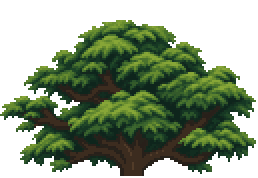
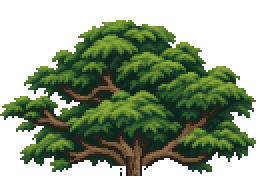
Fix Camphor wood tones and native branch and crown attachment joints

diff --git a/tools/match_camphor_wood.py b/tools/match_camphor_wood.py
@@ -1,18 +1,83 @@
-"""Exact color-only remap of brown foliage pixels to the native stem palette."""
+"""Match native wood tones by shade distribution and graft exact native joints."""
+from collections import Counter, deque
 from pathlib import Path
 from PIL import Image
 from build_camphor_assets import WOOD
 root=Path(__file__).resolve().parents[1]
+assets=root/'Assets/Grove'
+stem=Image.open(assets/'Camphor.png').convert('RGBA')
+native=Image.open(root/'tools/art/grove/vanilla/Tree_Branches_0.png').convert('RGBA')
+wood=set(WOOD.values())
+counts=Counter(p[:3] for p in stem.get_flattened_data() if p[3] and p[:3] in wood)
+ordered=sorted(counts,key=sum)
+thresholds=[];total=sum(counts.values());cumulative=0
+for color in ordered:
+    cumulative+=counts[color];thresholds.append(cumulative/total)
+def brown(p):
+    r,g,b,a=p
+    return a and r>g*1.12 and g>b*1.1
+
+def match(image):
+    original=list(image.get_flattened_data())
+    counts=Counter(p for p in original if brown(p))
+    mapping={};cumulative=0;total=sum(counts.values())
+    for color in sorted(counts,key=lambda p:sum(p[:3])):
+        quantile=(cumulative+counts[color]/2)/total
+        rank=next(i for i,t in enumerate(thresholds) if quantile<=t)
+        mapping[color]=(*ordered[rank],color[3]);cumulative+=counts[color]
+    image.putdata([mapping.get(p,p) for p in original])
+    return image
+
+def joint(style,left):
+    part=native.crop((0 if left else 42,style*42,40 if left else 82,style*42+40))
+    part.putdata([(*WOOD[p[:3]],p[3]) if p[3] and p[:3] in WOOD else (0,0,0,0) for p in part.get_flattened_data()])
+    return part
+
 for name in ('Camphor_Tops','Camphor_Boughs','Camphor_Branches'):
-    path=root/'Assets/Grove'/f'{name}.png'
-    image=Image.open(path).convert('RGBA')
-    colors=set(image.get_flattened_data())
-    mapping={}
-    for p in colors:
-        r,g,b,a=p
-        if a and r>g*1.12 and g>b*1.1:
-            # Keep already matched sockets; map original warm generated wood by shade.
-            target=p[:3] if p[:3] in WOOD.values() else WOOD[min(WOOD,key=lambda q:sum((v-w)**2 for v,w in zip(q,p[:3])))]
-            mapping[p]=(*target,a)
-    image.putdata([mapping.get(p,p) for p in image.get_flattened_data()])
+    path=assets/f'{name}.png';image=match(Image.open(path).convert('RGBA'))
+    if name=='Camphor_Tops':
+        # The source's neck centers at x134, not half of its former 256px canvas.
+        # Widening the transparent canvas keeps every leaf and centers the neck.
+        # Trim only brown neck overhang, then insert a complete native stem strip.
+        for y in range(166,176):
+            for x in range(image.width):
+                if not 126<=x<142 and brown(image.getpixel((x,y))):image.putpixel((x,y),(0,0,0,0))
+        strip=stem.crop((2,22,18,42))
+        image.alpha_composite(strip,(126,156))
+    else:
+        large=name=='Camphor_Boughs'
+        stride_x,stride_y,w=(66,50,64) if large else (42,42,40)
+        for style in range(3):
+            for side in range(2):
+                left=side==0;origin_x=side*stride_x;origin_y=style*stride_y
+                if style==2 and left:
+                    # This native arm rises above the generated limb's socket.
+                    # Move the existing art to it, rather than painting a bridge.
+                    h=48 if large else 40;up=2 if large else 8
+                    part=image.crop((origin_x,origin_y+up,origin_x+w,origin_y+h))
+                    image.paste((0,0,0,0),(origin_x,origin_y,origin_x+w,origin_y+h))
+                    image.alpha_composite(part,(origin_x,origin_y))
+                # Replace the attachment wood with the original native taper,
+                # rather than a solid rectangular plug. Foliage is untouched.
+                zone=8
+                for y in range(stride_y-2):
+                    for x in range(w-zone if left else 0,w if left else zone):
+                        p=(origin_x+x,origin_y+y)
+                        if brown(image.getpixel(p)):image.putpixel(p,(0,0,0,0))
+                image.alpha_composite(joint(style,left),(origin_x+(24 if left and large else 0),origin_y+(12 if large else 0)))
+    if name!='Camphor_Tops':
+        # A branch must be one continuous component from its native root.
+        h=48 if large else 40
+        for style in range(3):
+            for side in range(2):
+                ox,oy=side*stride_x,style*stride_y
+                opaque={(x,y) for y in range(h) for x in range(w) if image.getpixel((ox+x,oy+y))[3]}
+                queue=deque(p for p in opaque if p[0]>=w-2) if side==0 else deque(p for p in opaque if p[0]<2)
+                connected=set()
+                while queue:
+                    p=queue.popleft()
+                    if p in connected or p not in opaque:continue
+                    connected.add(p);x,y=p;queue.extend(((x-1,y),(x+1,y),(x,y-1),(x,y+1)))
+                assert len(connected)>=len(opaque)*.95,(name,style,side,'disconnected main limb')
+                for x,y in opaque-connected:image.putpixel((ox+x,oy+y),(0,0,0,0))
     image.save(path)

diff --git a/tools/check_camphor_joints.py b/tools/check_camphor_joints.py
@@ -1,0 +1,53 @@
+"""Check actual packed joint pixels against native stem frames; export closeups."""
+from collections import deque
+from pathlib import Path
+import hashlib
+from PIL import Image,ImageDraw
+from build_camphor_assets import WOOD
+ROOT=Path(__file__).resolve().parents[1]
+ASSETS=ROOT/'Assets/Grove'
+stem=Image.open(ASSETS/'Camphor.png').convert('RGBA')
+# Pin the approved 0.4.25 stem pixels, independent of PNG encoder/Git history.
[1 lines of base64/hex data omitted]
+wood=set(WOOD.values());means=[]
+for name,size in [('Camphor',(176,264)),('Camphor_Tops',(270,178)),('Camphor_Boughs',(132,150)),('Camphor_Branches',(84,126))]:
+ im=Image.open(ASSETS/(name+'.png')).convert('RGBA');assert im.size==size
+ assert set(im.getchannel('A').get_flattened_data())=={0,255}
+ for y in range(0,im.height,2):
+  for x in range(0,im.width,2):
+   p=im.getpixel((x,y));assert all(im.getpixel((x+dx,y+dy))==p for dx in (0,1) for dy in (0,1)),(name,x,y)
+ pixels=[p[:3] for p in im.get_flattened_data() if p[3] and p[:3] in wood]
+ means.append(tuple(sum(p[k] for p in pixels)/len(pixels) for k in range(3)))
+assert all(abs(mean[k]-means[0][k])<9 for mean in means[1:3] for k in range(3)),means
+
+def flood(image,seeds):
+ q=deque(seeds);seen=set()
+ while q:
+  x,y=q.popleft()
+  if (x,y) in seen or not (0<=x<image.width and 0<=y<image.height) or not image.getpixel((x,y))[3]:continue
+  seen.add((x,y));q.extend(((x-1,y),(x+1,y),(x,y-1),(x,y+1)))
+ return seen
+
+bough=Image.open(ASSETS/'Camphor_Boughs.png').convert('RGBA')
+plate=Image.new('RGBA',(540,276),'#6588ac');labels=ImageDraw.Draw(plate)
+for style in range(3):
+ for side in range(2):
+  left=side==0;image=Image.new('RGBA',(180,70));ox,oy=80,30
+  fx,fy=(110,66) if left else (66,110)
+  image.alpha_composite(stem.crop((fx,fy,fx+20,fy+20)),(ox-2,oy))
+  fx=44 if left else 66;fy=198+style*22
+  image.alpha_composite(stem.crop((fx,fy,fx+20,fy+20)),(ox+(-16 if left else 16)-2,oy))
+  part=bough.crop((side*66,style*50,side*66+64,style*50+48))
+  dx,dy=ox+(-64 if left else 16),oy-24;image.alpha_composite(part,(dx,dy))
+  attached=flood(image,[(ox+8,oy+8)])
+  pixels={(dx+x,dy+y) for y in range(48) for x in range(64) if part.getpixel((x,y))[3]}
+  assert pixels<=attached,('detached branch',style,side,len(pixels-attached))
+  x,y=style*180,side*92;plate.alpha_composite(image,(x,y+18))
+  labels.text((x+4,y+2),f'{"Left" if left else "Right"} {style+1}',fill='white')
+crown=Image.open(ASSETS/'Camphor_Tops.png').convert('RGBA')
+image=Image.new('RGBA',(64,76));image.alpha_composite(crown.crop((102,136,166,176)),(0,0))
+image.alpha_composite(stem.crop((0,22,20,42)),(22,40));attached=flood(image,[(32,52)])
+assert all((x,y) in attached for y in range(24,40) for x in range(24,40)), 'crown neck separated'
+plate.alpha_composite(image,(238,196));labels.text((224,184),'Crown / stem',fill='white')
+plate.resize((1080,552),Image.Resampling.NEAREST).save(ROOT/'tools/art/grove/camphor-joints-preview.png')
+print('Six branch-to-stem contacts, centered crown, wood tones, unchanged stem, binary alpha and 2x2 grid passed')

diff --git a/Content/Tiles/CamphorAppearance.cs b/Content/Tiles/CamphorAppearance.cs
@@ -47,8 +47,8 @@ namespace IslandAdventure.Content.Tiles
                 var branch=ModContent.Request<Texture2D>("IslandAdventure/Assets/Grove/Camphor_Boughs",AssetRequestMode.ImmediateLoad).Value;
                 int style=System.Math.Clamp((fy-198)/22,0,2);
                 bool left=fx==44;
-                batch.Draw(branch,point+new Vector2(left?16:0,12),
-                    new Rectangle(left?0:66,style*50,AncientCamphor.BoughWidth,AncientCamphor.BoughHeight),light,sway,new Vector2(left?AncientCamphor.BoughWidth:0,36),1,SpriteEffects.None,0);
+                batch.Draw(branch,point+new Vector2(left?16:0,left?12:18),
+                    new Rectangle(left?0:66,style*50,AncientCamphor.BoughWidth,AncientCamphor.BoughHeight),light,sway,new Vector2(left?AncientCamphor.BoughWidth:0,left?36:42),1,SpriteEffects.None,0);
             }
             return false;
         }

diff --git a/tools/render_camphor_preview.py b/tools/render_camphor_preview.py
@@ -1,7 +1,7 @@
 #!/usr/bin/env python3
 """Assemble an exported native tree with ImageMagick; do not repaint its art.
 
-Uses TileDrawing's zero-wind 20px trunk, 64px bough and custom 256px crown frames.
+Uses TileDrawing's zero-wind 20px trunk, 64px bough and custom 268px crown frames.
 This is a static join diagnostic, not a graphical-client screenshot.
 """
 import json
@@ -19,7 +19,7 @@ def render():
     tiles = sample["tiles"]
     trunk = sample["trunkX"]
     floor = sample["floor"]
-    crown_width, crown_height = 256, 176
+    crown_width, crown_height = 268, 176
     top = min(t["y"] * 16 + 16 - crown_height for t in tiles
               if t["fx"] == 22 and t["fy"] >= 198)
     origin_x = trunk * 16 + 8 - 200

diff --git a/Content/Trees/AncientCamphor.cs b/Content/Trees/AncientCamphor.cs
@@ -12,7 +12,7 @@ namespace IslandAdventure.Content.Trees
     // This registration also supports legacy grove soil in saved worlds.
     public class AncientCamphor : ModTree
     {
-        public const int CrownWidth = 256, CrownHeight = 176;
+        public const int CrownWidth = 268, CrownHeight = 176;
         public const int BranchWidth = 40, BranchHeight = 40;
         public const int BoughWidth = 64, BoughHeight = 48;
         public override TreePaintingSettings TreeShaderSettings => new TreePaintingSettings();

diff --git a/tools/art/grove/concepts/README.md b/tools/art/grove/concepts/README.md
@@ -5,7 +5,7 @@ previous tree was removed. camphor-parts-source.png contains a newly generated
 canopy and left/right boughs, using that concept and ecosystem-preview.png
 (existing grove plants) as references. Neither source image is loaded in game.
 
-## Current implementation (0.4.26)
+## Current implementation (0.4.27)
 
 User clarification: keep the actual vanilla-based trunk and roots, but use
 original Camphor crown and branches. Camphor.png is byte-identical to 0.4.25:
@@ -13,13 +13,20 @@ complete Tiles_5.png with the same exact six-shade wood palette transform.
 The stem builder does not crop, resize, quantize or reconstruct native alpha.
 
 build_camphor_foliage.sh packs the approved generated Camphor parts separately:
-- Camphor_Tops.png: 256x176 crown plus native trailing gutter (258x178).
+- Camphor_Tops.png: 268x176 crown frame plus trailing gutter (270x178); original foliage is not scaled.
 - Camphor_Boughs.png: 64x48 gallery branches, 66x50 stride, two sides/three styles.
 - Camphor_Branches.png: separate 40x40 fallback required by the ModTree API.
 
 match_camphor_wood.py matches brown pixels to the stem's six wood shades;
 foliage stays green. Hard alpha and 2x2 pixels are established before packing.
-Solid 8px sockets match the renderer's pivot and avoid thin branch attachments.
+Native branch wood is grafted at the exact joint offsets; rectangular sockets
+are removed. Branch 3 left is aligned to the raised native arm. Connected-
+component checks reject detached main limbs and remove stray tiny fragments.
+The right-side wind pivot follows Terraria (18px/30px before extra canvas).
+The source neck centers at x134; a native 16px stem strip joins its bottom.
+Wood shades match the stem distribution by brightness rank, avoiding the dark
+bias of nearest-source-RGB matching. Run python3 -B tools/check_camphor_joints.py
+for contact/tone/grid checks and a magnified six-branch/crown diagnostic.
 The original concept and parts source remain; vanilla foliage sheets are now
 references only. No generated material is applied to the trunk or roots.
 

diff --git a/README.md b/README.md
@@ -989,3 +989,20 @@ Validation for 0.4.26: build passes with zero warnings/errors, packaging succeed
 94,327 loaded-tModLoader assertions pass. The stem/root PNG is byte-identical
 to 0.4.25. All four atlases pass frame-size, binary-alpha and exact 2x2 grid
 checks. Static join preview reviewed; graphical-client review remains pending.
+
+## 0.4.27 — connected Camphor joints and consistent wood tones
+
+Native branch wood replaces rectangular sockets. All six bough variants form
+continuous shapes to their native attachment; the raised third left arm is
+aligned explicitly, with stray floating fragments removed. Wood shade ranks
+now match the stem brightness distribution, rather than collapsing generated
+brown pixels into dark shades. The crown neck is centered at x134 in a 268px
+frame and grafted with a native 16px stem strip. Right-side wind pivot uses the
+native attachment height. The stem/root PNG, gameplay and tile layout remain.
+A new packed-pixel contact test exports magnified branch/crown closeups.
+
+Validation for 0.4.27: build succeeds with zero warnings/errors; packaging and
+94,327 loaded-tModLoader assertions pass. Packed-pixel contact checks pass for
+all six branch-to-stem pairs and the centered crown neck. Stem/root pixels match
+the approved 0.4.25 signature; four atlases retain binary alpha and the 2x2 grid.
+Magnified joint preview reviewed. Graphical-client confirmation is still pending.
